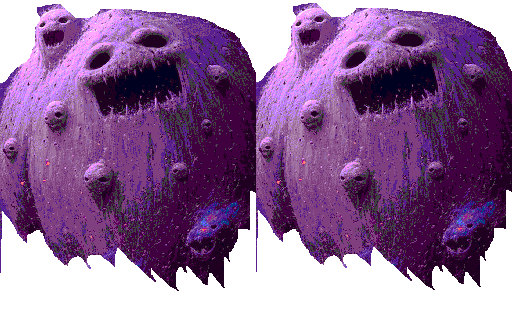
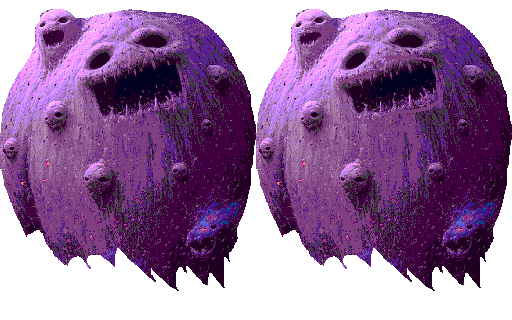
v0.2e - 2025.10.14

diff --git a/index.html b/index.html
@@ -208,5 +208,87 @@
         }
     </script>
 
+    <script type="x-shader/x-fragment" id="glitchShader">
+        precision mediump float;
+
+        uniform sampler2D uMainSampler;
+        uniform float time;
+        // 効果のパラメータ
+        uniform float uDisplace;   // 横方向ノイズ
+        uniform float uHueShift;   // 色相ずれ
+        uniform float uDesaturate; // 彩度減衰
+        // 効果をかける範囲の設定
+        uniform int frame;
+        uniform float frameOffsetX;
+        uniform float frameOffsetY;
+        uniform float frameWidth;
+        uniform float frameHeight;
+
+        varying vec2 outTexCoord;
+
+        // 疑似乱数生成
+        float rand(vec2 co) {
+            return fract(sin(dot(co.xy, vec2(12.9898, 78.233))) * 43758.5453);
+        }
+
+        // RGB→HSV 変換
+        vec3 rgb2hsv(vec3 c) {
+            vec4 K = vec4(0.0, -1.0/3.0, 2.0/3.0, -1.0);
+            vec4 p = mix(vec4(c.bg, K.wz), vec4(c.gb, K.xy), step(c.b, c.g));
+            vec4 q = mix(vec4(p.xyw, c.r), vec4(c.r, p.yzx), step(p.x, c.r));
+
+            float d = q.x - min(q.w, q.y);
+            float e = 1.0e-10;
+            return vec3(abs(q.z + (q.w - q.y) / (6.0 * d + e)), d / (q.x + e), q.x);
+        }
+
+        // HSV→RGB 変換
+        vec3 hsv2rgb(vec3 c) {
+            vec3 p = abs(fract(c.xxx + vec3(0.0, 1.0/3.0, 2.0/3.0)) * 6.0 - 3.0);
+            return c.z * mix(vec3(1.0), clamp(p - 1.0, 0.0, 1.0), c.y);
+        }
+
+        void main(void) {
+            vec2 uv = outTexCoord;
+
+            // UVがフレーム範囲外なら破棄
+            if (frame == 1){
+                if (uv.x < frameOffsetX || uv.x > frameOffsetX + frameWidth ||
+                    uv.y < frameOffsetY || uv.y > frameOffsetY + frameHeight){
+                        discard;
+                }
+            }
+
+            // 横方向ランダムUVずれ
+            float t = fract(time * 0.2);
+            float r = rand(vec2(uv.x * 800.0, uv.y * 600.0 + t * 100.0));
+            float offset = (r - 0.5) * 2.0 * uDisplace * 0.08;
+            uv.x += offset;
+
+            // UVがフレーム範囲外なら破棄
+            if (frame == 1){
+                if (uv.x < frameOffsetX || uv.x > frameOffsetX + frameWidth) {
+                    discard;
+                }
+            }
+
+            // 元の色取得
+            vec4 texColor = texture2D(uMainSampler, uv);
+
+            // 色相ランダム変化
+            vec3 hsv = rgb2hsv(texColor.rgb);
+            float hueRand = rand(vec2(uv.x * 160.0 + t * 30.0, uv.y * 90.0)) * 2.0 - 1.0;
+            hsv.x += hueRand * uHueShift * 0.5;
+            hsv.x = fract(hsv.x);
+            hsv.x = 1.0 - hsv.x;
+
+            // 彩度減衰
+            hsv.y *= 1.0 - uDesaturate;
+
+            texColor.rgb = hsv2rgb(hsv);
+            gl_FragColor = texColor;
+        }
+    </script>   
+
 </body>
 </html>

diff --git a/js/objects/enemy_b8.js b/js/objects/enemy_b8.js
@@ -38,9 +38,42 @@ export class Enemy_B8 extends Enemy {
             });
         }
         this.sprite.play("anims_boss_8");
+
+        // シェーダーの設定
+        this.sprite.setPipeline('Glitch');
+        this.glitch = this.scene.renderer.pipelines.get('Glitch');
+        this.glitch.set1f('time', 0);
+        this.glitch.set1f('uDisplace', 1.0);
+        this.glitch.set1f('uHueShift', 0.5);
+        this.glitch.set1f('uDesaturate', 0.0);
+
+        this.sprite.frameOffset = {x:0, y:0};
+        this.sprite.frameScale  = {x:1, y:1};
+
+        // アニメーション更新時の処理
+        this.sprite.on('animationupdate', (animation, frame, sprite) => {
+            // Atlas全体の大きさ
+            const atlasWidth  = sprite.texture.getSourceImage().width;
+            const atlasHeight = sprite.texture.getSourceImage().height;
+
+            // Atlas内での現在フレームの位置と大きさ
+            const frameX = frame.frame.cutX;
+            const frameY = frame.frame.cutY;
+            const frameWidth  = frame.frame.width;
+            const frameHeight = frame.frame.height;
+
+            // シェーダーに処理範囲を設定
+            if(this.glitch) {
+                this.glitch.set1i('frame', 1);
+                this.glitch.set1f('frameOffsetX', frameX / atlasWidth);
+                this.glitch.set1f('frameOffsetY', frameY / atlasHeight);
+                this.glitch.set1f('frameWidth', frameWidth / atlasWidth);
+                this.glitch.set1f('frameHeight', frameHeight / atlasHeight);
+            }
+        });
     }
 
-    update(){
+    update(time, delta){
         super.update();
         this.velocity = GameState.player.pos.clone().subtract(this.pos).normalize().scale(this.speed * GameState.ff);
         this.pos.add(this.velocity);
@@ -50,6 +83,12 @@ export class Enemy_B8 extends Enemy {
             this.shot_count = COOLDOWN_INTERVAL;
             this.shoot();
         }
+        // console.log("time",time);
+        this.glitch.set1f('time', time);
+        const p = (Math.sin(time / 5000) + 1) / 2;
+        this.glitch.set1f('uDisplace', p);
+        this.glitch.set1f('uHueShift', p);
+        this.glitch.set1f('uDesaturate', p);
     }
 
     destroy(){

diff --git a/js/scenes/background.js b/js/scenes/background.js
@@ -2,6 +2,7 @@
 import { GLOBALS } from '../GameConst.js';
 import { GameState } from '../GameState.js';
 import { MyMath } from '../utils/MathUtils.js';
+import { GlitchPipeline } from '../utils/DrawUtils.js';
 import { Spawn } from './spawn.js';
 
 export class Background {
@@ -417,6 +418,19 @@ export class Background {
                 this.scrollFloor.set1f('uScaleTop', scale);
                 this.scrollFloor.set1f('uScaleBottom', 1.0);
 
+                // レイヤー2 に ノイズシェーダーを適用
+ 
+                this.glitch = this.scene.renderer.pipelines.get('Glitch2');
+                this.glitch.set1f('time', 0);
+                this.glitch.set1f('uDisplace', 1.0);
+                this.glitch.set1f('uHueShift', 0.5);
+                this.glitch.set1f('uDesaturate', 0.0);
+                this.glitch.set1i('frame', 0);
+                this.glitch.set1f('frameOffsetX', 0.0);
+                this.glitch.set1f('frameOffsetY', 0.0);
+                this.glitch.set1f('frameWidth', 1.0);
+                this.glitch.set1f('frameHeight', 1.0);
+                this.layer4.setPipeline('Glitch2');
             },
             update(time, delta) {
                 // スクロールシェーダのパラメータ更新
@@ -427,6 +441,13 @@ export class Background {
                 this.floorLayer.y = MyMath.global_y_to_disp_y(GLOBALS.FIELD.HEIGHT, GLOBALS.LAYER.FLOOR.Z_TOP);
                 this.scrollFloor.set1f('uOffsetX', (GameState.scroll_x || 0) / GLOBALS.FIELD.WIDTH);
                 this.scrollFloor.set1f('uSqueeze', ((GLOBALS.FIELD.HEIGHT - this.floorLayer.y) / GLOBALS.LAYER.FLOOR.HEIGHT));
+
+                // ノイズシェーダのパラメータ更新
+                this.glitch.set1f('time', time);
+                const p = (Math.sin(time / 500) + 1) / 2;
+                this.glitch.set1f('uDisplace', p);
+                this.glitch.set1f('uHueShift', p);
+                this.glitch.set1f('uDesaturate', p);
             }
         }
     }

diff --git a/AssetLoader.js b/AssetLoader.js
@@ -1,7 +1,7 @@
 // Jailus2/AssetLoader.js
 import { GLOBALS } from './js/GameConst.js';
 import { GameState } from './js/GameState.js';
-import { ScrollPipeline, RipplePipeline, ShockwavePostFX } from './js/utils/DrawUtils.js';
+import { ScrollPipeline, RipplePipeline, ShockwavePostFX, GlitchPipeline } from './js/utils/DrawUtils.js';
 
 export class AssetLoader extends Phaser.Scene {
     constructor() {
@@ -157,7 +157,10 @@ export class AssetLoader extends Phaser.Scene {
         this.renderer.pipelines.add('ScrollFloor', new ScrollPipeline(this.game));
         this.renderer.pipelines.add('Ripple', new RipplePipeline(this.game));
         this.renderer.pipelines.addPostPipeline('Shockwave', ShockwavePostFX);
+        this.renderer.pipelines.add('Glitch', new GlitchPipeline(this.game));
+        this.renderer.pipelines.add('Glitch2', new GlitchPipeline(this.game));
     }
+
     create() {
 
         GameState.sound = {

diff --git a/js/utils/DrawUtils.js b/js/utils/DrawUtils.js
@@ -94,6 +94,17 @@ export class Shockwave {
     }
 }
 
+// ◆オブジェクトをノイズ化するシェーダー
+export class GlitchPipeline extends Phaser.Renderer.WebGL.Pipelines.SinglePipeline {
+    constructor(game) {
+        super({
+            game,
+            renderer: game.renderer,
+            fragShader: document.getElementById('glitchShader').textContent
+        });
+    }
+}
+
 // ◆ビットマップフォントで文章を表示する
 export class Sentences {
     constructor(scene, sentences, options = {}) {

diff --git a/js/GameConst.js b/js/GameConst.js
@@ -1,7 +1,7 @@
 // GameConst.js
 
 export const GLOBALS = {
-    VERSION : "0.2d - 2025.10.12",
+    VERSION : "0.2e - 2025.10.14",
     STAGE_MAX : 8,
     INIT_LIVES : 3,
     EXTEND_FIRST : 20000,
